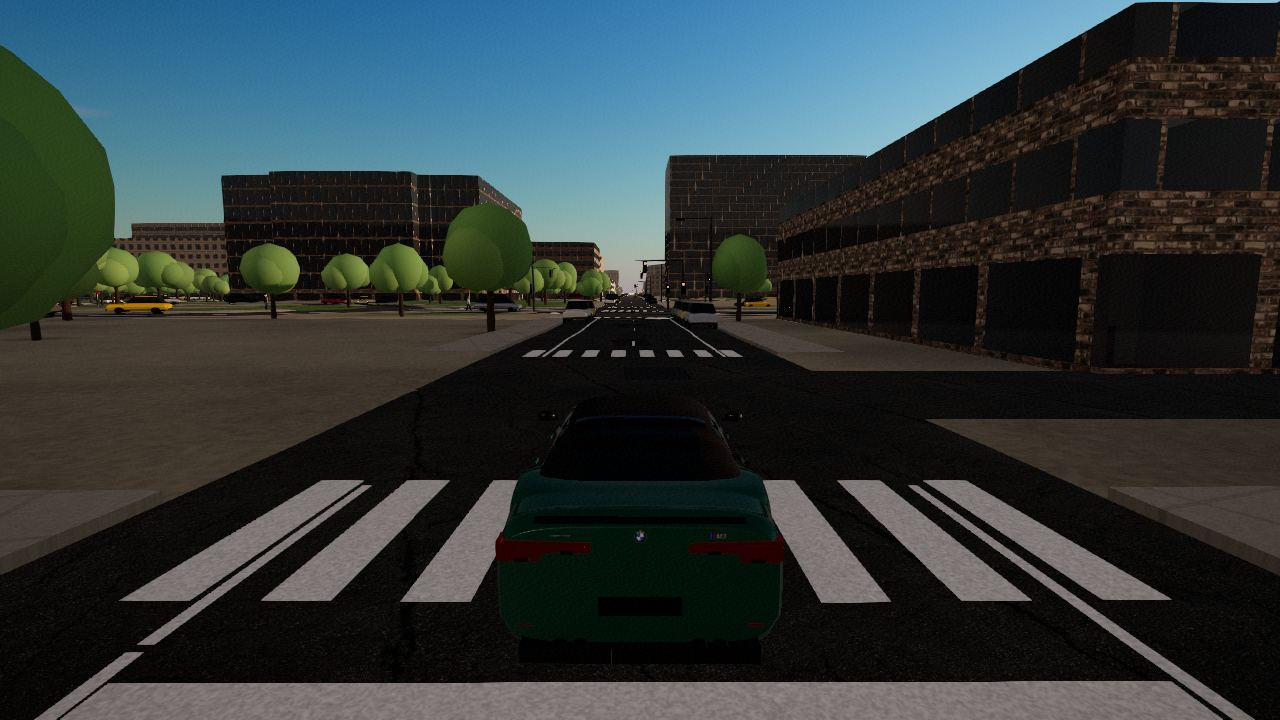
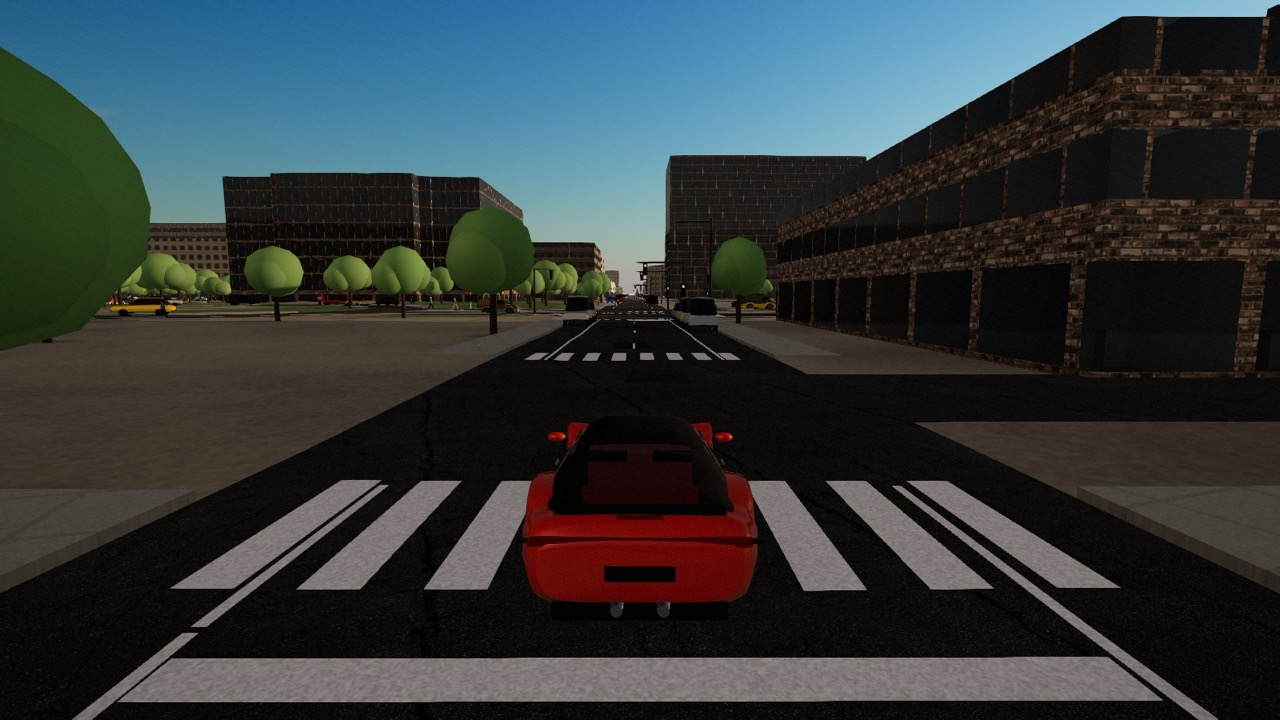
Public build: brand-free title text, previews and README screenshots
The GitHub Pages build still said "drop into an M3 Competition" on the
title screen, credited BMW in its footer and used city previews rendered
with the M3. The title copy and footer now follow VITE_PUBLIC_BUILD, the
footer credits are current (Kenney, OFL fonts), and the nine city previews
and README gallery are re-rendered with the Vireo S6.

diff --git a/src/ui/screens.ts b/src/ui/screens.ts
@@ -2,13 +2,16 @@ import { CITIES, type CityDef, type TimePreset, type WeatherKind } from '../worl
 import { arrowNav, el, esc, focusFirst, qs, show } from './dom.ts';
 import { mapFrame, outlinePath, project } from './caMap.ts';
 
+/** Public builds (GitHub Pages) ship without the branded M3; see PUBLIC_BUILD in vehicles.ts. */
+const PUBLIC = import.meta.env?.VITE_PUBLIC_BUILD === '1';
+
 export class TitleScreen {
   readonly root: HTMLElement;
   constructor(ui: HTMLElement, h: { drive(): void; select(): void; garage(): void; controls(): void; graphics(): void; about(): void }, lastCity: string) {
     this.root = el('section', 'screen title hidden', `
       <div class="vignette"></div>
       <h1 class="logo">California<span>Drive</span></h1>
-      <p class="tagline">Pick a California city, drop into an M3 Competition and just drive. Streets, hills and skylines are built from open map data. No account, no saves, nothing leaves your browser.</p>
+      <p class="tagline">Pick a California city, drop into ${PUBLIC ? 'the driver\u2019s seat' : 'an M3 Competition'} and just drive. Streets, hills and skylines are built from open map data. No account, no saves, nothing leaves your browser.</p>
       <div class="menu" role="menu" aria-label="Main menu">
         <button class="primary" data-a="drive" role="menuitem">Drive <span>${esc(CITIES.find((c) => c.id === lastCity)?.name ?? 'San Francisco')} →</span></button>
         <button data-a="select" role="menuitem">City Select <kbd>Map</kbd></button>
@@ -17,7 +20,7 @@ export class TitleScreen {
         <button data-a="graphics" role="menuitem">Graphics &amp; Audio</button>
         <button data-a="about" role="menuitem">About &amp; Licenses</button>
       </div>
-      <div class="title-foot">Map data © OpenStreetMap contributors (ODbL) · Elevation: AWS Terrain Tiles (USGS 3DEP)<br/>Models and audio are generated in code · Textures &amp; sky: Poly Haven (CC0) · Font: Barlow (OFL). BMW and M3 are trademarks of BMW AG; fan-made, not affiliated.</div>
+      <div class="title-foot">Map data © OpenStreetMap contributors (ODbL) · Elevation: AWS Terrain Tiles (USGS 3DEP)<br/>Traffic, debris &amp; glyphs: Kenney (CC0) · Textures &amp; sky: Poly Haven (CC0) · Fonts: OFL · Audio synthesized in code.${PUBLIC ? '' : ' BMW and M3 are trademarks of BMW AG; fan-made, not affiliated.'}</div>
     `);
     ui.appendChild(this.root);
     this.root.querySelectorAll<HTMLButtonElement>('.menu button').forEach((b) => b.addEventListener('click', () => (h as any)[b.dataset.a!]()));

diff --git a/README.md b/README.md
@@ -13,9 +13,9 @@ An accountless, browser-based open-world driving game set in California. Pick a 
 | ![Title](docs/media/title.jpg) | ![San Francisco — Karl the Fog rolling in](docs/media/sf-golden-fog.jpg) |
 | ![Los Angeles downtown by day](docs/media/la-day-clear.jpg) | ![San Diego Gaslamp at golden hour](docs/media/sd-golden-clear.jpg) |
 | ![Lake Tahoe Highway 89 in snow](docs/media/tahoe-day-snow.jpg) | ![Yosemite Valley at golden hour](docs/media/yosemite-golden-clear.jpg) |
-| ![SF night, cockpit camera with live gauges](docs/media/sf-night-clear-3.jpg) | ![Broadway Tunnel, San Francisco](docs/media/tunnel.jpg) |
+| ![SF at night, hood camera with live gauges](docs/media/sf-night-clear-3.jpg) | ![Santa Monica pier Ferris wheel at night](docs/media/smc-wheel-night.jpg) |
 
-<sub>Screenshots are from headless Chrome with software rendering (SwiftShader). On a real GPU, shadows, anti-aliasing and frame rate are better.</sub>
+<sub>Screenshots are from the public build (Vireo S6) in headless Chrome with software rendering (SwiftShader). On a real GPU, shadows, anti-aliasing and frame rate are better.</sub>
 
 ## Regions
 
